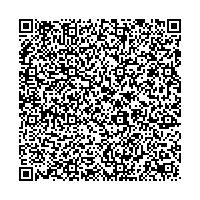
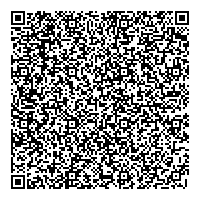
added imageUrl

diff --git a/JsonUI/JsonUI/Features/Scanner/Model/QRCodeModel.swift b/JsonUI/JsonUI/Features/Scanner/Model/QRCodeModel.swift
@@ -18,6 +18,7 @@ struct QRCodeModel: Codable {
     let questionType: QuestionType
     let questionTitle: String?
     let questionMessage: String
+    let imageUrl: String?
     let options: [String]?
     let answers: [String]?
     let answersSuccess: String
@@ -44,12 +45,18 @@ extension QRCodeModel {
         }
     }
     
+    var imageURL: URL? {
+        guard let imageUrlString = imageUrl, let url = URL(string: imageUrlString) else { return nil }
+        return url
+    }
+    
     init(jsonString: String) throws {
         let model = try JSONDecoder().decode(QRCodeModel.self, from: jsonString.data(using: .utf8) ?? Data())
         questionId = model.questionId
         questionType = model.questionType
         questionTitle = model.questionTitle
         questionMessage = model.questionMessage
+        imageUrl = model.imageUrl
         options = model.options
         answers = model.answers
         answersSuccess = model.answersSuccess
@@ -104,6 +111,7 @@ extension QRCodeModel {
         "questionType": "input",
         "questionTitle": "Phản hồi",
         "questionMessage": "Chúng tôi muốn lắng nghe ý kiến phản hồi của bạn về trung tâm để cải thiện và nâng cao chất lượng dịch vụ, bạn vui lòng dành ít phút để điền vào ô phía dưới nhé:",
+        "imageUrl": "https://larryferlazzo.edublogs.org/files/2020/03/feedback_1583238216.png",
         "answersSuccess": "Cảm ơn bạn dành thời gian cho chúng tôi!",
         "requestUrl": "https://stag.devmind.edu.vn/api/login"
         }

diff --git a/JsonUI/JsonUI/Features/Scanner/View/ResultView.swift b/JsonUI/JsonUI/Features/Scanner/View/ResultView.swift
@@ -45,6 +45,12 @@ struct ResultView: View {
                             Text(self.model.questionMessage)
                                 .frame(maxWidth: .infinity, alignment: .leading)
                                 .multilineTextAlignment(.leading)
+                            
+                            if self.model.imageURL != nil {
+                                Image(uiImage: UIImage(data: try! Data.init(contentsOf: self.model.imageURL!))!)
+                                    .resizable().scaledToFit()
+                            }
+                            
                             if self.model.questionType == .input {
                                 TextField("answer", text: self.$viewModel.inputAnswer)
                                     .textFieldStyle(RoundedBorderTextFieldStyle())
@@ -85,7 +91,7 @@ struct ResultView: View {
 struct ResultView_Previews: PreviewProvider {
     static var previews: some View {
         Group {
-            ResultView(qrCode: QRCodeModel.mockJsonSingleChoice, showResultView: Binding<Bool>.constant(true))
+            ResultView(qrCode: QRCodeModel.mockJsonInput, showResultView: Binding<Bool>.constant(true))
                 .environment(\.locale, .init(identifier: "vi"))
             
             ResultView(qrCode: QRCodeModel.mockJsonMultiChoice, showResultView: Binding<Bool>.constant(true))

diff --git a/README.md b/README.md
@@ -21,16 +21,11 @@ Mã QR code trên được tạo ra bởi đoạn json sau:
   "questionType": "singleChoice",
   "questionTitle": "Lịch sử",
   "questionMessage": "Đâu là tên gọi đầu tiên của nước Việt Nam?",
-  "options": [
-    "Xích Quỷ",
-    "Văn Lang",
-    "Âu Lạc",
-    "Nam Việt",
-    "Bộ Giao Chỉ"],
+  "options": ["Xích Quỷ", "Văn Lang", "Âu Lạc", "Nam Việt", "Bộ Giao Chỉ"],
   "answers": ["Âu Lạc"],
   "answersSuccess": "Chúc mừng bạn đã trả lời đúng",
   "answersFail": "Bạn đã trả lời sai, vui lòng thử lại nhé",
-  "requestUrl": "https://staging.zent.com",
+  "requestUrl": "https://staging.zent.com"
 }
 ```
 
@@ -41,6 +36,7 @@ Mã QR code trên được tạo ra bởi đoạn json sau:
 | questionType | Kiểu câu hỏi, chỉ được chọn 1 trong các giá trị sau: <br> `singleChoice`: Câu hỏi trắc nghiệm chỉ có 1 đáp án đúng <br> `multiChoice`: Câu hỏi trắc nghiệm có nhiều đáp án <br> `input`: Câu hỏi tự luận | bắt buộc |
 | questionTitle | Tiêu đề ngắn ngọn của câu hỏi, thường là chủ đề của câu hỏi | tuỳ chọn |
 | questionMessage | Nội dung câu hỏi | bắt buộc |
+| imageUrl | Đường dẫn tới hình ảnh sẽ hiển thị ngay dưới nội dung câu hỏi | tuỳ chọn |
 | options | Mảng các câu trả lời. Nếu là câu hỏi tự luận, vui lòng bỏ trống trường này | tuỳ chọn |
 | answers | Mảng các câu trả lời đúng. <br> Mảng có 1 giá trị nếu là câu hỏi trắc nghiệm chỉ có 1 đáp án đúng. <br> Mảng có nhiều giá trị nếu là câu hỏi trắc nghiệm có nhiều đáp án đúng. <br> Nếu là câu hỏi tự luận, vui lòng bỏ qua trường này. | tuỳ chọn |
 | answersSuccess | Nội dung sẽ xuất hiện khi học viên trả lời đúng câu hỏi trắc nghiệm hoặc hoàn thành câu hỏi tự luận | bắt buộc |
@@ -84,12 +80,7 @@ Dưới đây là 1 số mẫu QR code dùng để thử nghiệm
   "questionType": "singleChoice",
   "questionTitle": "Lịch sử",
   "questionMessage": "Đâu là tên gọi đầu tiên của nước Việt Nam?",
-  "options": [
-    "Xích Quỷ",
-    "Văn Lang",
-    "Âu Lạc",
-    "Nam Việt",
-    "Bộ Giao Chỉ"],
+  "options": ["Xích Quỷ", "Văn Lang", "Âu Lạc", "Nam Việt", "Bộ Giao Chỉ"],
   "answers": ["Âu Lạc"],
   "answersSuccess": "Chúc mừng bạn đã trả lời đúng",
   "answersFail": "Bạn đã trả lời sai, vui lòng thử lại nhé",
@@ -107,12 +98,7 @@ Dưới đây là 1 số mẫu QR code dùng để thử nghiệm
   "questionType": "multiChoice",
   "questionTitle": "Toán học",
   "questionMessage": "1 cộng với 1 bằng bao nhiêu?",
-  "options": [
-    "2",
-    "3",
-    "Bốn",
-    "Hai",
-    "Mười"],
+  "options": ["2", "3", "Bốn", "Hai", "Mười"],
   "answers": ["2", "Hai"],
   "answersSuccess": "Chúc mừng bạn đã trả lời đúng",
   "answersFail": "Bạn đã trả lời sai, vui lòng thử lại nhé",
@@ -126,11 +112,12 @@ Dưới đây là 1 số mẫu QR code dùng để thử nghiệm
 
 ```json
 {
-  "questionId": "abc1234xyz",
-  "questionType": "input",
-  "questionTitle": "Phản hồi",
-  "questionMessage": "Chúng tôi muốn lắng nghe ý kiến phản hồi của bạn về trung tâm để cải thiện và nâng cao chất lượng dịch vụ, bạn vui lòng dành ít phút để điền vào ô phía dưới nhé:",
-  "answersSuccess": "Cảm ơn bạn dành thời gian cho chúng tôi!",
-  "requestUrl": "https://stag.devmind.edu.vn/api/login",
+"questionId": "abc1234xyz",
+"questionType": "input",
+"questionTitle": "Phản hồi",
+"questionMessage": "Chúng tôi muốn lắng nghe ý kiến phản hồi của bạn về trung tâm để cải thiện và nâng cao chất lượng dịch vụ, bạn vui lòng dành ít phút để điền vào ô phía dưới nhé:",
+"imageUrl": "https://larryferlazzo.edublogs.org/files/2020/03/feedback_1583238216.png",
+"answersSuccess": "Cảm ơn bạn dành thời gian cho chúng tôi!",
+"requestUrl": "https://stag.devmind.edu.vn/api/login"
 }
 ```
